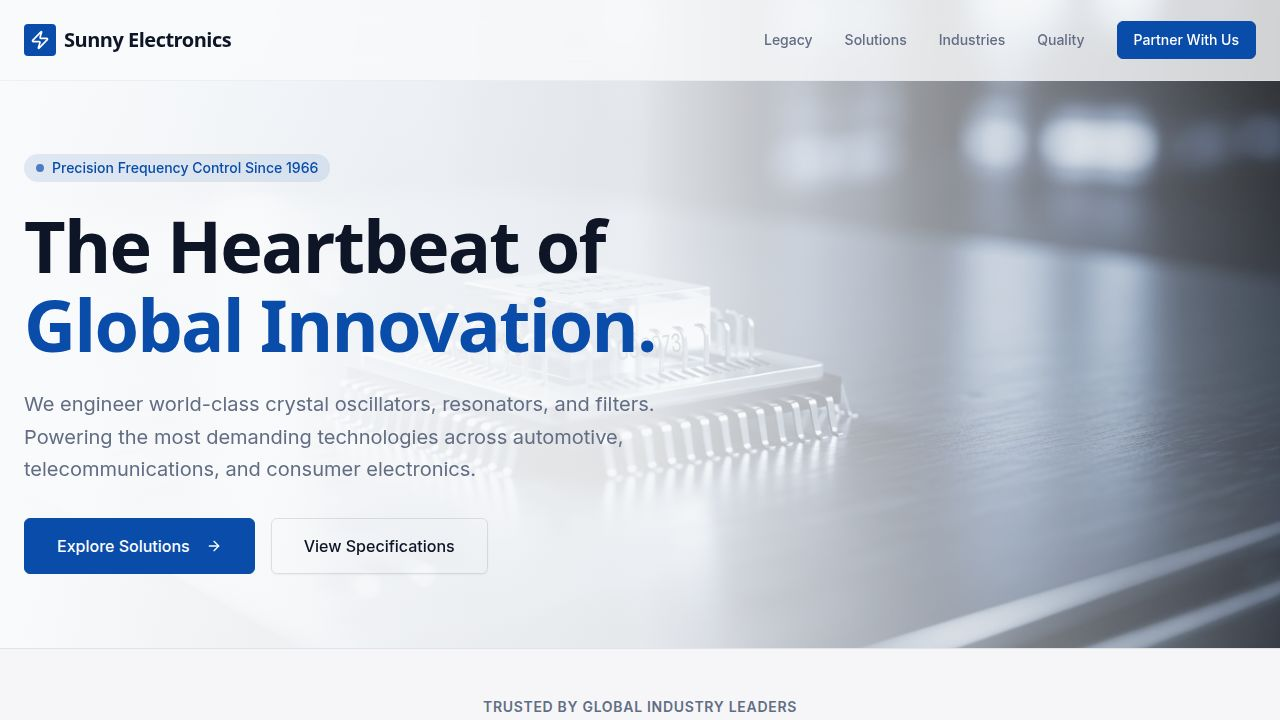
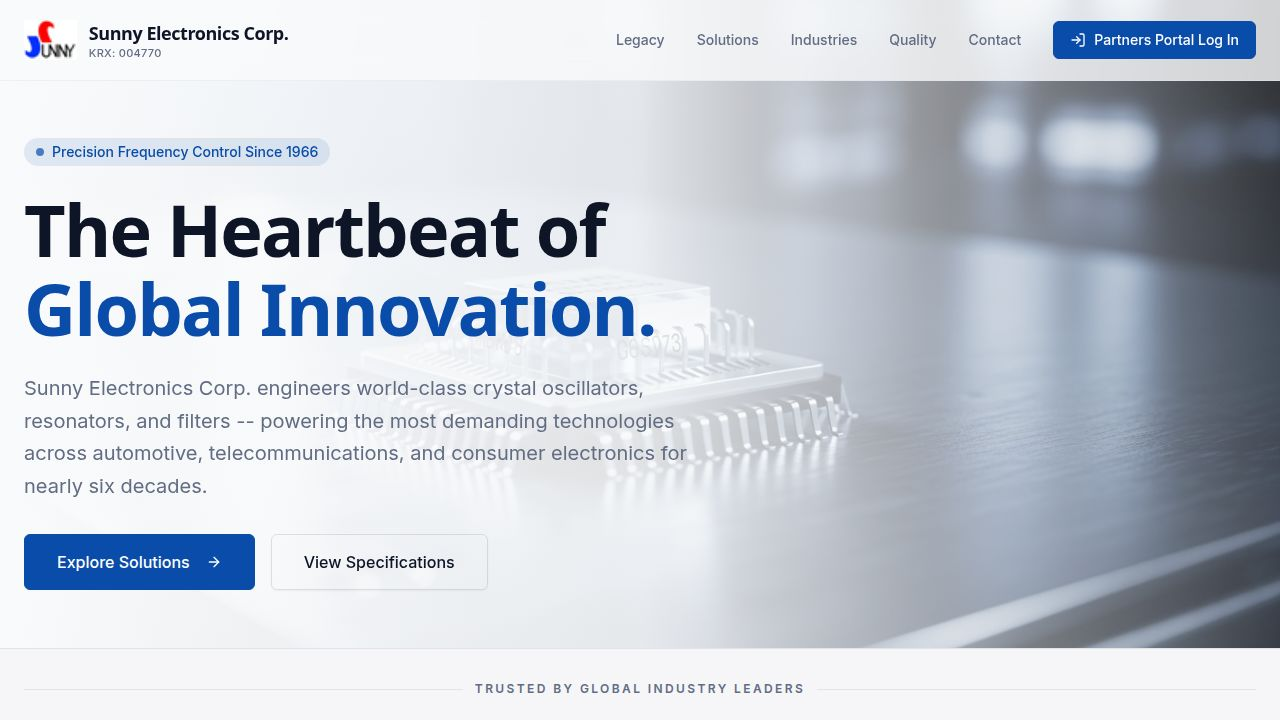
Add a page for partners to request portal access
Create a new "Request Access" page and integrate it into the application's routing and navigation.

Replit-Commit-Author: Agent
Replit-Commit-Session-Id: 5f912182-65ae-41f1-99fc-b97814adcb04
Replit-Commit-Checkpoint-Type: full_checkpoint
Replit-Commit-Event-Id: 338941a2-dedb-4120-a27c-d1f3d4e286f4
Replit-Commit-Screenshot-Url: https://storage.googleapis.com/screenshot-production-us-central1/7ab590a8-1568-4d39-9930-28a64dfcee6a/5f912182-65ae-41f1-99fc-b97814adcb04/dguufuF
Replit-Helium-Checkpoint-Created: true

diff --git a/artifacts/web/src/pages/request-access.tsx b/artifacts/web/src/pages/request-access.tsx
@@ -1,0 +1,179 @@
+import { useState } from "react";
+import { Link } from "wouter";
+import { motion } from "framer-motion";
+import { ArrowLeft, Send, CheckCircle2, LogIn } from "lucide-react";
+import { Button } from "@/components/ui/button";
+import { Input } from "@/components/ui/input";
+import { Label } from "@/components/ui/label";
+import sunnyLogo from "@assets/image_1775118121182.png";
+
+export default function RequestAccess() {
+  const [submitted, setSubmitted] = useState(false);
+  const [formData, setFormData] = useState({
+    companyName: "",
+    contactHandler: "",
+    phoneNumber: "",
+    email: "",
+  });
+
+  const handleChange = (e: React.ChangeEvent<HTMLInputElement>) => {
+    setFormData((prev) => ({ ...prev, [e.target.name]: e.target.value }));
+  };
+
+  const handleSubmit = (e: React.FormEvent) => {
+    e.preventDefault();
+    setSubmitted(true);
+  };
+
+  const isFormValid =
+    formData.companyName.trim() !== "" &&
+    formData.contactHandler.trim() !== "" &&
+    formData.phoneNumber.trim() !== "" &&
+    formData.email.trim() !== "";
+
+  return (
+    <div className="min-h-screen bg-background text-foreground flex flex-col font-sans">
+      <nav className="bg-background border-b border-border">
+        <div className="max-w-7xl mx-auto px-6 h-20 flex items-center justify-between">
+          <Link href="/" className="flex items-center gap-3 hover:opacity-80 transition-opacity">
+            <img src={sunnyLogo} alt="Sunny Electronics Corp." className="h-10 w-auto" />
+            <div className="flex flex-col leading-tight">
+              <span className="font-display font-bold text-lg tracking-tight text-foreground">Sunny Electronics Corp.</span>
+              <span className="text-[11px] text-muted-foreground font-medium tracking-wide">KRX: 004770</span>
+            </div>
+          </Link>
+          <Link href="/">
+            <Button variant="ghost" className="gap-2 text-muted-foreground" data-testid="button-back-home">
+              <ArrowLeft className="w-4 h-4" />
+              Back to Home
+            </Button>
+          </Link>
+        </div>
+      </nav>
+
+      <div className="flex-1 flex items-center justify-center px-6 py-16">
+        <motion.div
+          initial={{ opacity: 0, y: 20 }}
+          animate={{ opacity: 1, y: 0 }}
+          transition={{ duration: 0.5, ease: "easeOut" }}
+          className="w-full max-w-md"
+        >
+          {!submitted ? (
+            <div>
+              <div className="text-center mb-8">
+                <div className="w-16 h-16 rounded-2xl bg-primary/10 flex items-center justify-center mx-auto mb-6">
+                  <LogIn className="w-8 h-8 text-primary" />
+                </div>
+                <h1 className="text-3xl font-display font-bold mb-3">Partners Portal</h1>
+                <p className="text-muted-foreground">
+                  Request access to the Sunny Electronics Corp. Partners Portal. Fill in your details below and our team will review your request.
+                </p>
+              </div>
+
+              <form onSubmit={handleSubmit} className="space-y-5">
+                <div className="space-y-2">
+                  <Label htmlFor="companyName">Company Name</Label>
+                  <Input
+                    id="companyName"
+                    name="companyName"
+                    type="text"
+                    placeholder="Enter your company name"
+                    value={formData.companyName}
+                    onChange={handleChange}
+                    required
+                    data-testid="input-company-name"
+                  />
+                </div>
+
+                <div className="space-y-2">
+                  <Label htmlFor="contactHandler">Contact Handler</Label>
+                  <Input
+                    id="contactHandler"
+                    name="contactHandler"
+                    type="text"
+                    placeholder="Full name of primary contact"
+                    value={formData.contactHandler}
+                    onChange={handleChange}
+                    required
+                    data-testid="input-contact-handler"
+                  />
+                </div>
+
+                <div className="space-y-2">
+                  <Label htmlFor="phoneNumber">Phone Number</Label>
+                  <Input
+                    id="phoneNumber"
+                    name="phoneNumber"
+                    type="tel"
+                    placeholder="+82 10 1234 5678"
+                    value={formData.phoneNumber}
+                    onChange={handleChange}
+                    required
+                    data-testid="input-phone-number"
+                  />
+                </div>
+
+                <div className="space-y-2">
+                  <Label htmlFor="email">Email Address</Label>
+                  <Input
+                    id="email"
+                    name="email"
+                    type="email"
+                    placeholder="you@company.com"
+                    value={formData.email}
+                    onChange={handleChange}
+                    required
+                    data-testid="input-email"
+                  />
+                </div>
+
+                <Button
+                  type="submit"
+                  className="w-full h-12 text-base gap-2"
+                  disabled={!isFormValid}
+                  data-testid="button-submit-request"
+                >
+                  <Send className="w-4 h-4" />
+                  Request Access
+                </Button>
+              </form>
+
+              <p className="text-center text-xs text-muted-foreground mt-6">
+                Already have access?{" "}
+                <span className="text-primary font-medium">Portal login coming soon.</span>
+              </p>
+            </div>
+          ) : (
+            <motion.div
+              initial={{ opacity: 0, scale: 0.95 }}
+              animate={{ opacity: 1, scale: 1 }}
+              transition={{ duration: 0.4 }}
+              className="text-center"
+            >
+              <div className="w-20 h-20 rounded-full bg-green-100 flex items-center justify-center mx-auto mb-6">
+                <CheckCircle2 className="w-10 h-10 text-green-600" />
+              </div>
+              <h2 className="text-2xl font-display font-bold mb-3">Request Submitted</h2>
+              <p className="text-muted-foreground mb-8">
+                Thank you for your interest in partnering with Sunny Electronics Corp. Our team will review your request and contact you at <span className="font-medium text-foreground">{formData.email}</span> within 2 business days.
+              </p>
+              <Link href="/">
+                <Button variant="outline" className="gap-2" data-testid="button-return-home">
+                  <ArrowLeft className="w-4 h-4" />
+                  Return to Home
+                </Button>
+              </Link>
+            </motion.div>
+          )}
+        </motion.div>
+      </div>
+
+      <footer className="border-t border-border py-6 bg-background">
+        <div className="max-w-7xl mx-auto px-6 text-center text-sm text-muted-foreground">
+          © {new Date().getFullYear()} Sunny Electronics Corp. | Seoul, Korea |{" "}
+          <a href="https://www.sunnykr.com" target="_blank" rel="noopener noreferrer" className="hover:text-foreground transition-colors">sunnykr.com</a>
+        </div>
+      </footer>
+    </div>
+  );
+}

diff --git a/artifacts/web/src/pages/home.tsx b/artifacts/web/src/pages/home.tsx
@@ -28,10 +28,12 @@ export default function Home() {
             <a href="#industries" className="hover:text-foreground transition-colors" data-testid="link-industries">Industries</a>
             <a href="#quality" className="hover:text-foreground transition-colors" data-testid="link-quality">Quality</a>
             <a href="#contact" className="hover:text-foreground transition-colors" data-testid="link-contact">Contact</a>
-            <Button data-testid="button-partners-portal" className="gap-2">
-              <LogIn className="w-4 h-4" />
-              Partners Portal Log In
-            </Button>
+            <Link href="/request-access">
+              <Button data-testid="button-partners-portal" className="gap-2">
+                <LogIn className="w-4 h-4" />
+                Partners Portal Log In
+              </Button>
+            </Link>
           </div>
         </div>
       </nav>

diff --git a/artifacts/web/src/App.tsx b/artifacts/web/src/App.tsx
@@ -4,6 +4,7 @@ import { Toaster } from "@/components/ui/toaster";
 import { TooltipProvider } from "@/components/ui/tooltip";
 import NotFound from "@/pages/not-found";
 import Home from "@/pages/home";
+import RequestAccess from "@/pages/request-access";
 
 const queryClient = new QueryClient();
 
@@ -11,6 +12,7 @@ function Router() {
   return (
     <Switch>
       <Route path="/" component={Home} />
+      <Route path="/request-access" component={RequestAccess} />
       <Route component={NotFound} />
     </Switch>
   );
